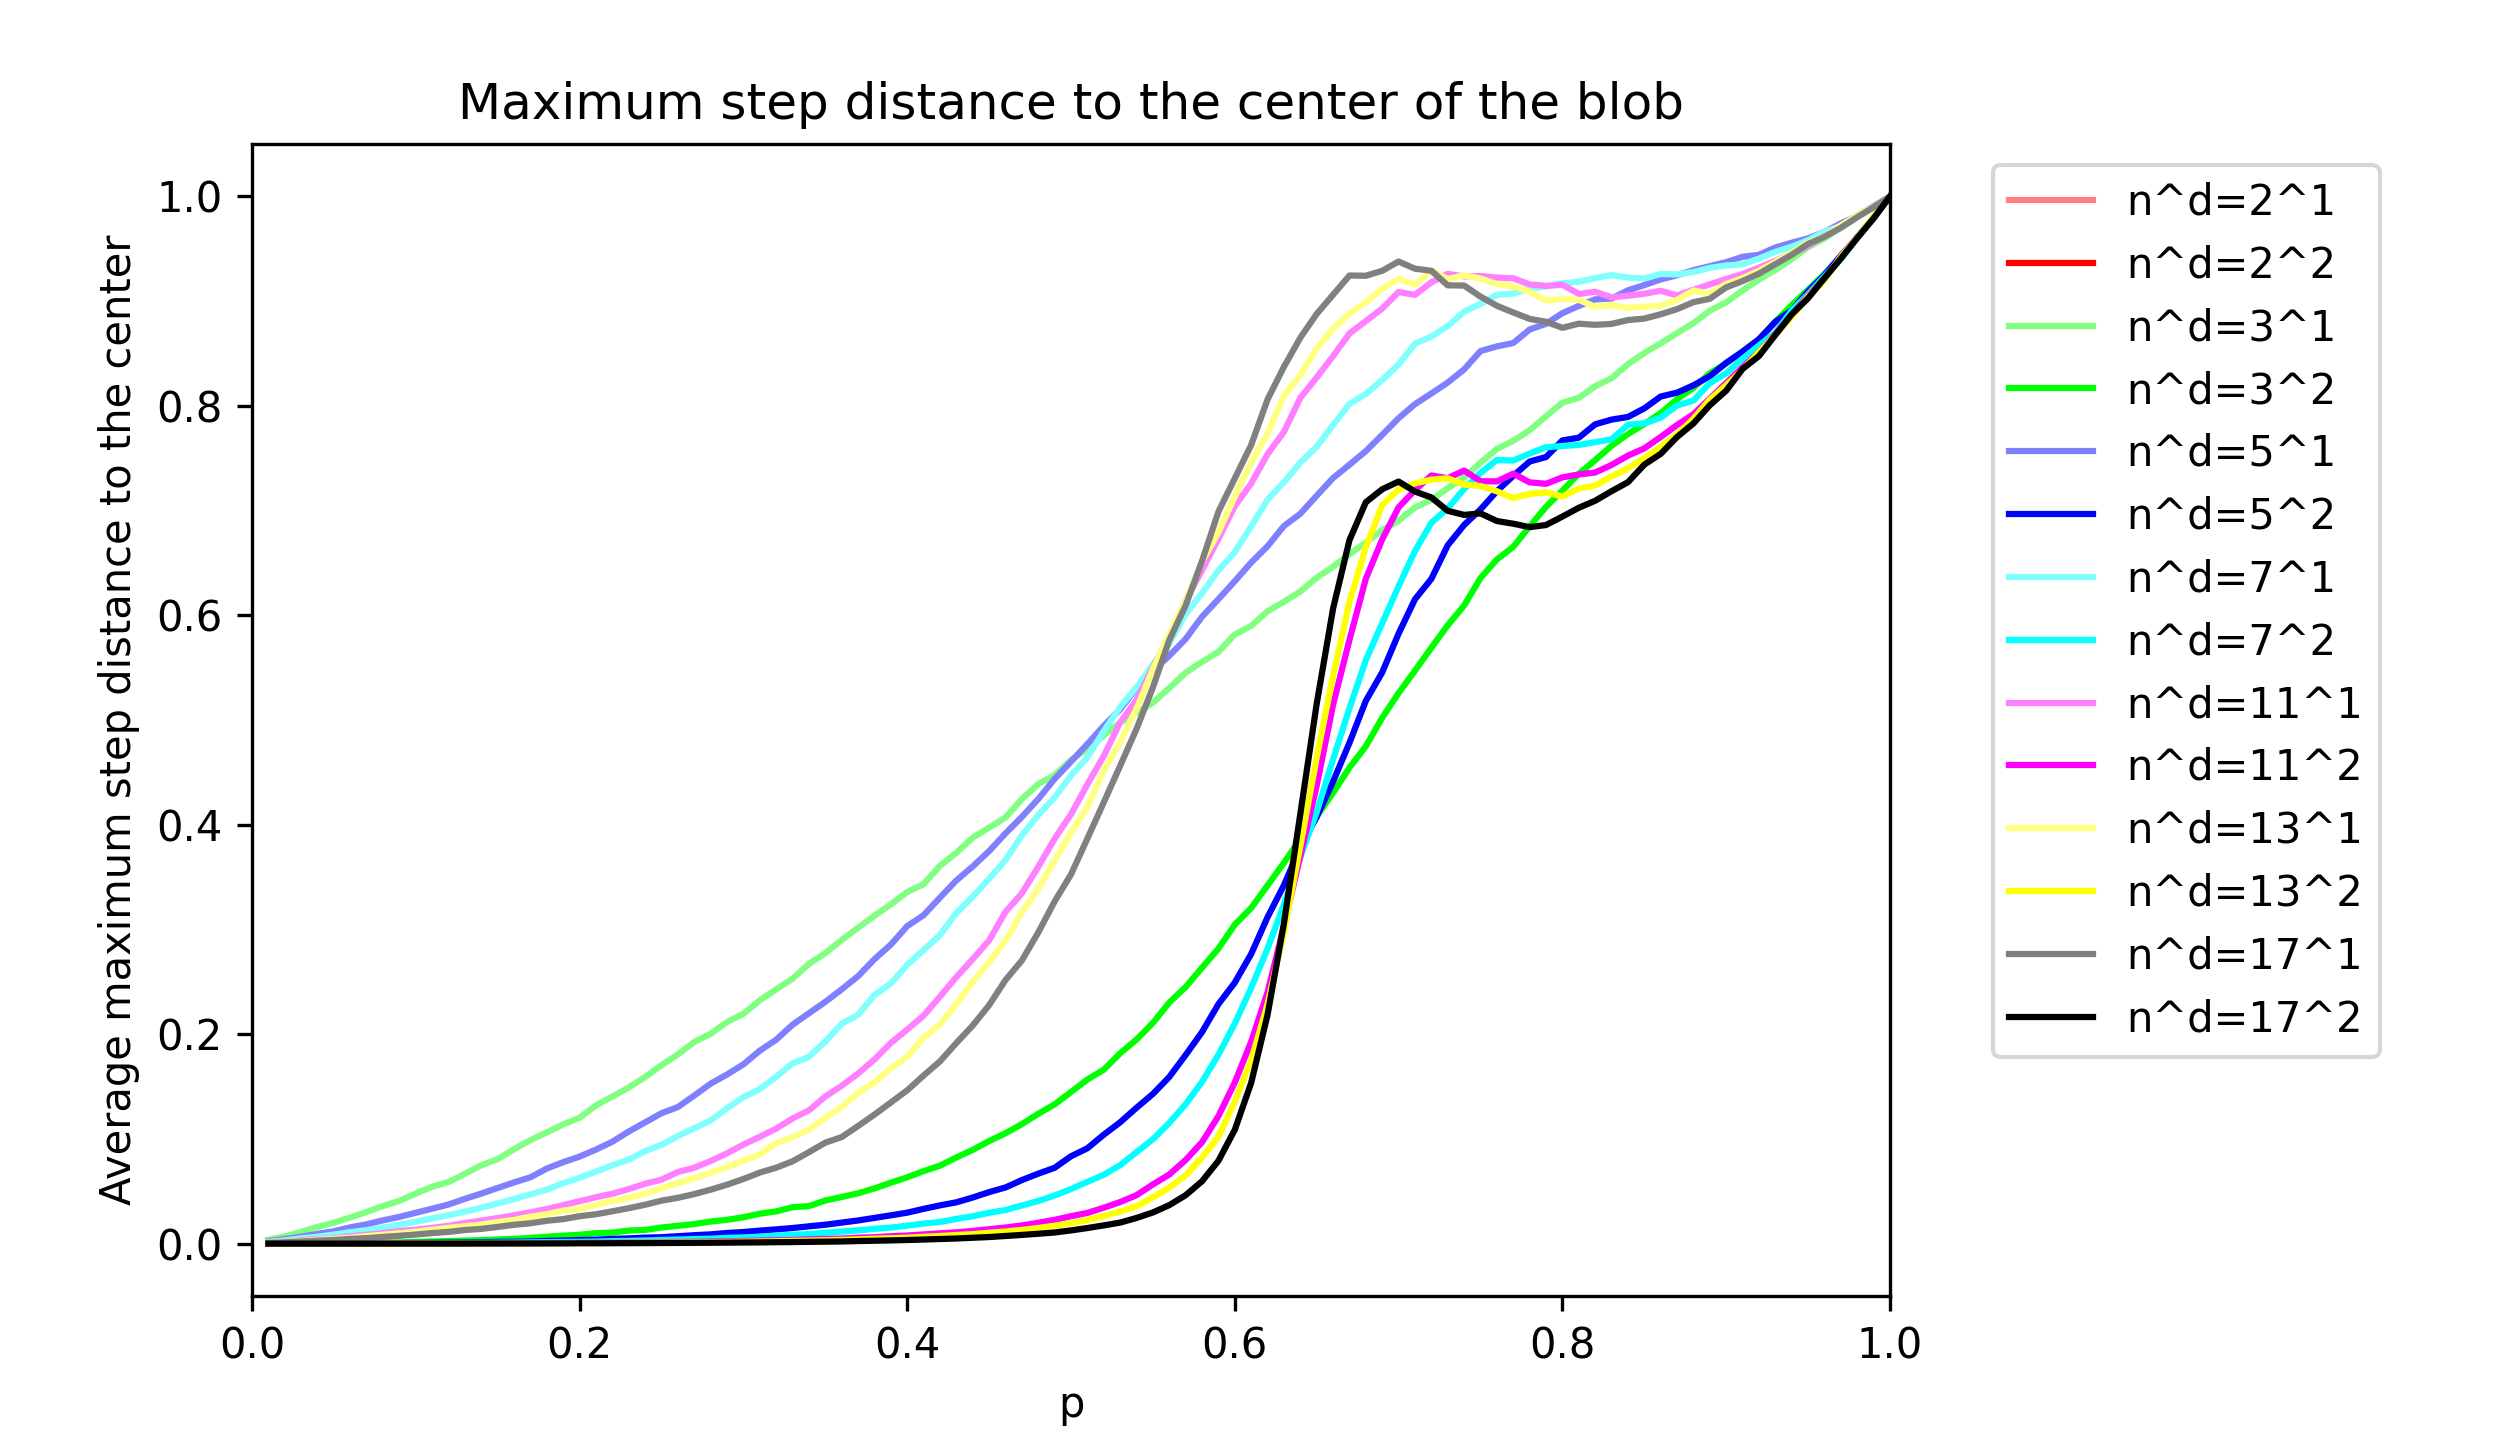
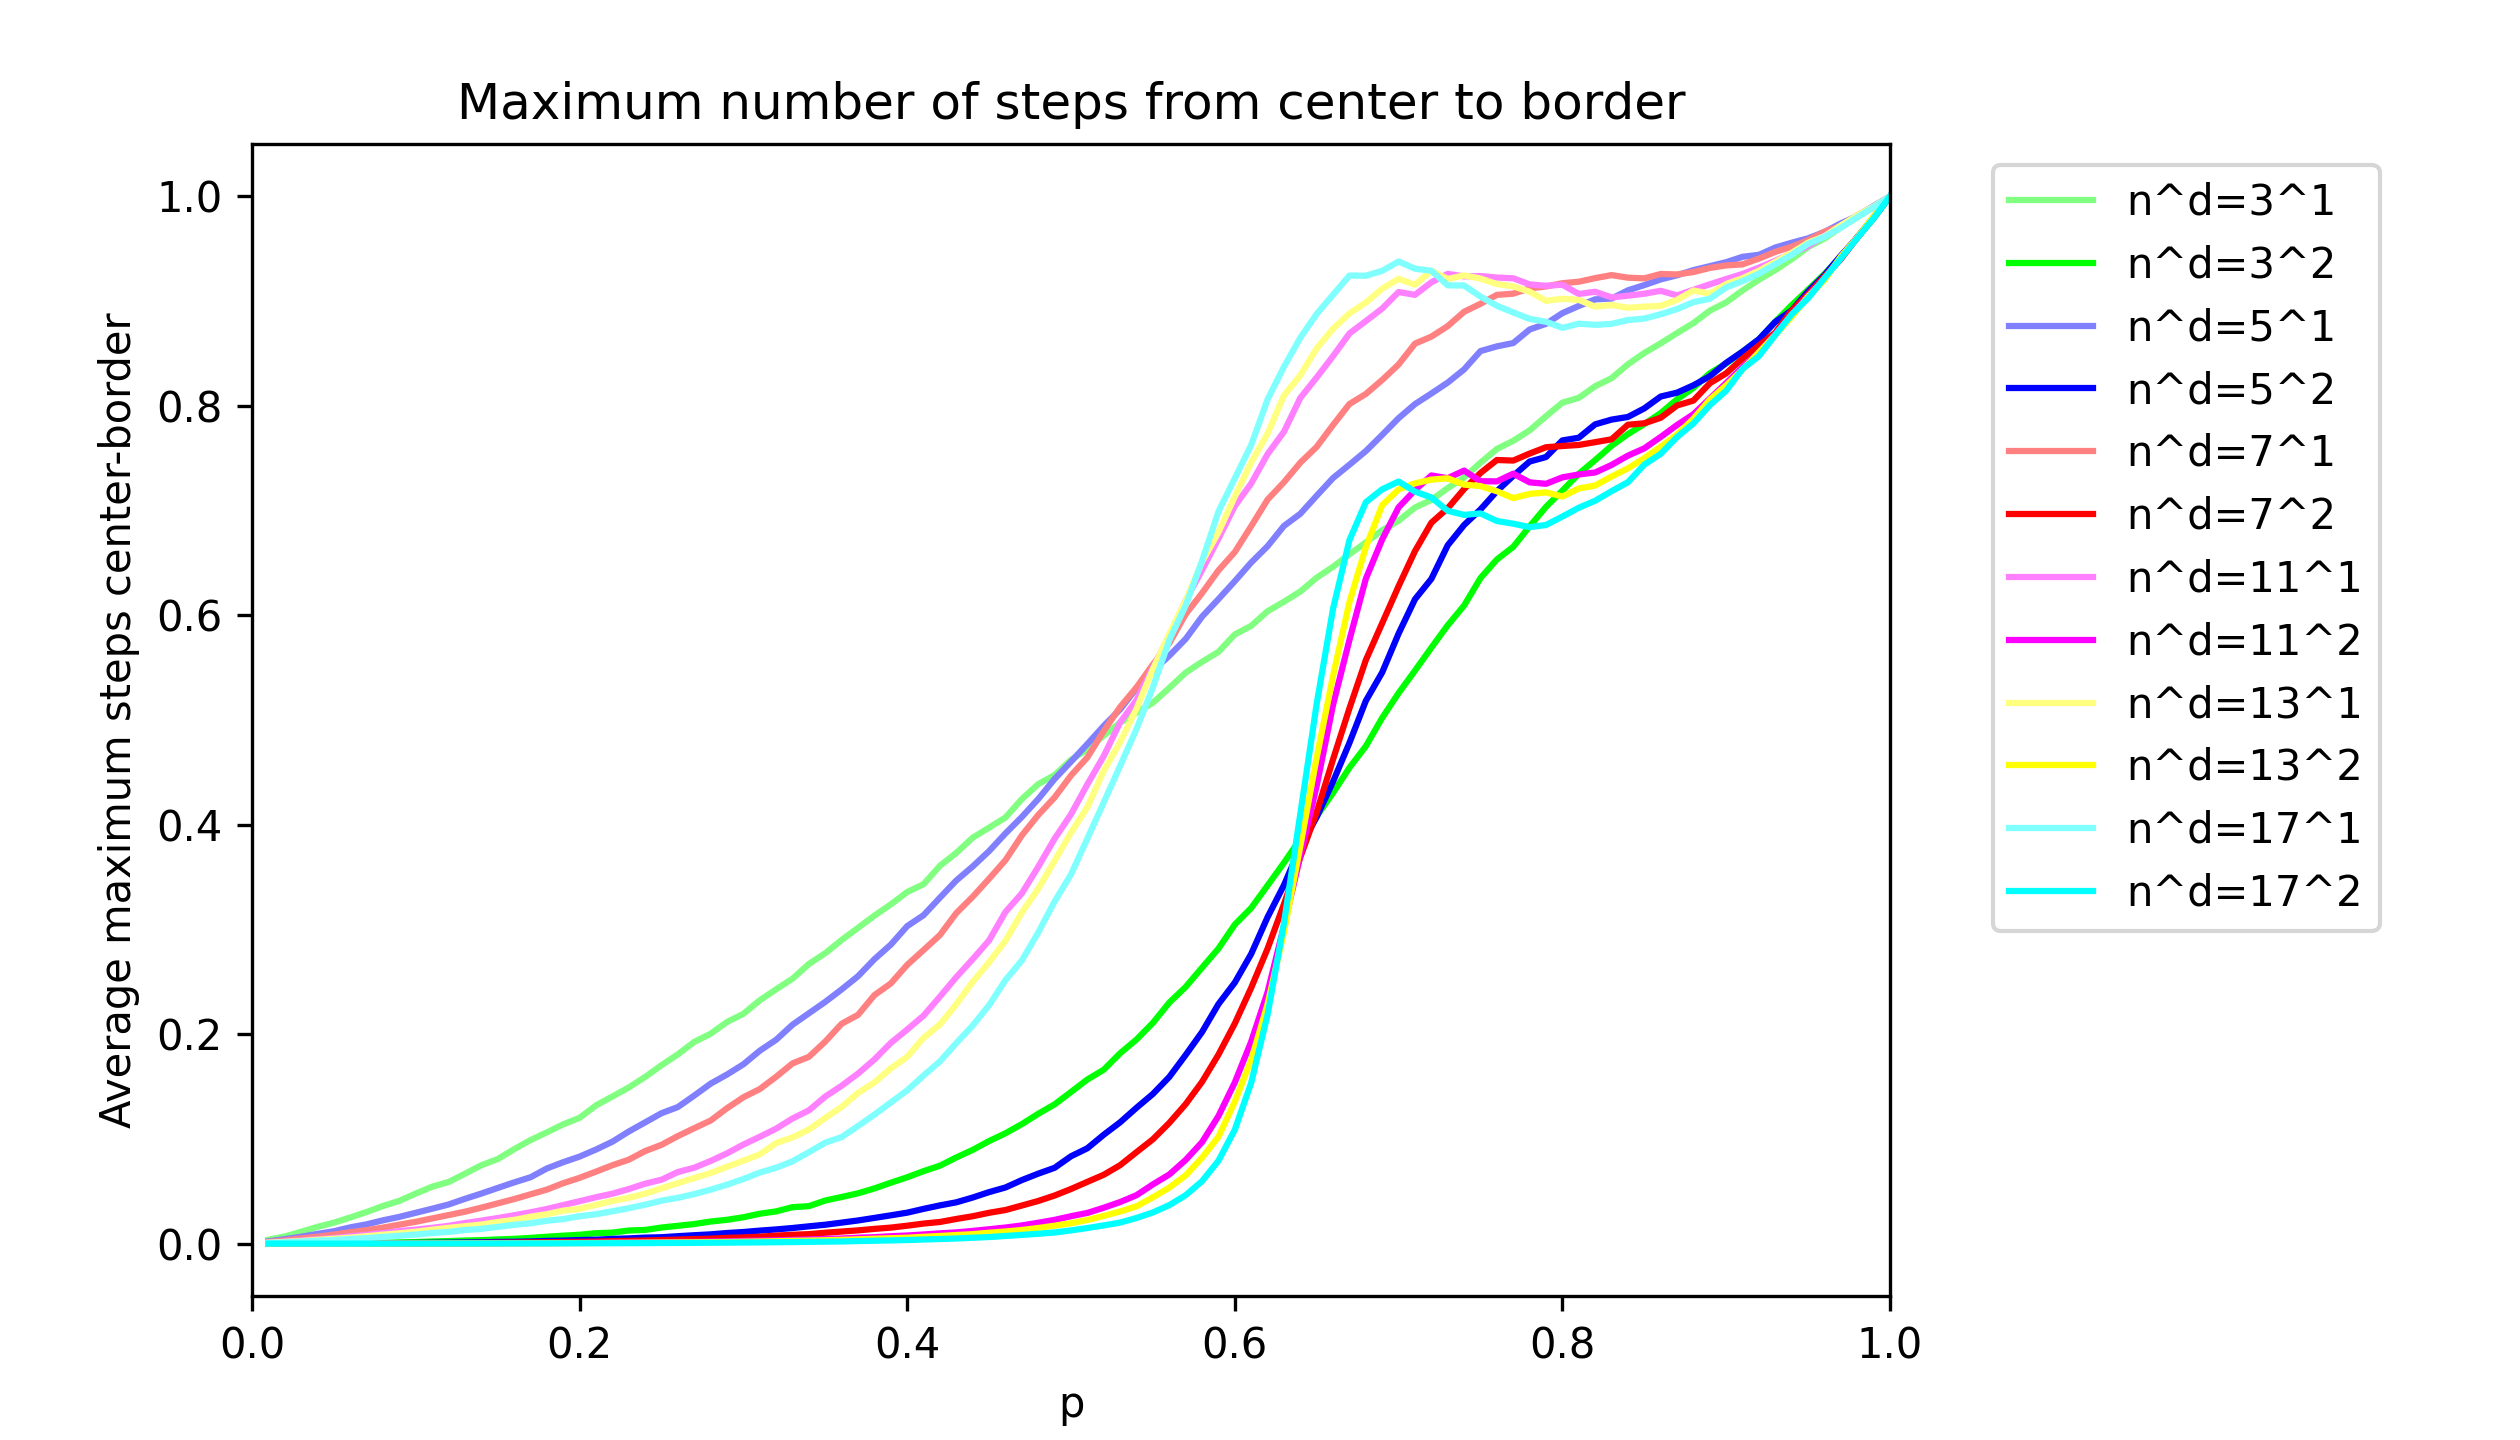
updated label & adapted some scalings

diff --git a/data_visualization/blob2D_avg_area.py b/data_visualization/blob2D_avg_area.py
@@ -27,13 +27,13 @@ def plot_set2(ns, d):
 plt.figure(figsize=[8.4, 4.8])
 plot_set(3, 5, 1,0,1)
 plot_set(5, 2, 1,1,0)
-plt.title("Area of the boundary of the blob")
+plt.title("Length of the boundary of the blob")
 plt.xlabel("p")
-plt.ylabel("Average boundary of the blob area")
+plt.ylabel("Average length of the blob boundary")
 plt.legend(bbox_to_anchor=(1.05, 1), loc='upper left')
 plt.subplots_adjust(left=0.1, right=0.75, top=0.9, bottom=0.1)
 plt.xlim(0,1)
-plt.ylim(0,120)
+# plt.ylim(0,120)
 plt.savefig("data_visualization/blob_2D/blob_area_2D.png", dpi=300)
 plt.show()
 
@@ -46,13 +46,13 @@ plot_set(7, 2, 1,0,0)
 plot_set(11,2, 0,1,0)
 plot_set(13,2, 0,0,1)
 plot_set(17,2, 1,1,1)
-plt.title("Area of the boundary of the blob")
+plt.title("Length of the boundary of the blob")
 plt.xlabel("p")
-plt.ylabel("Average boundary of the blob area")
+plt.ylabel("Average length of the blob boundary")
 plt.legend(bbox_to_anchor=(1.05, 1), loc='upper left')
 plt.subplots_adjust(left=0.1, right=0.75, top=0.9, bottom=0.1)
 plt.xlim(0,1)
-plt.ylim(0,120)
+# plt.ylim(0,120)
 plt.savefig("data_visualization/blob_2D/blob_area_2D_bis.png", dpi=300)
 plt.show()
 
@@ -60,12 +60,12 @@ plt.show()
 
 plt.figure(figsize=[8.4, 4.8])
 plot_set2( [3, 5, 7, 11, 13, 17, 25, 51, 75, 101, 125, 151, 175, 201], 1)
-plt.title("Area of the boundary of the blob")
+plt.title("Length of the boundary of the blob")
 plt.xlabel("p")
-plt.ylabel("Average boundary of the blob area")
+plt.ylabel("Average length of the blob boundary")
 plt.legend(bbox_to_anchor=(1.05, 1), loc='upper left')
 plt.subplots_adjust(left=0.1, right=0.75, top=0.9, bottom=0.1)
 plt.xlim(0,1)
-plt.ylim(0,120)
+# plt.ylim(0,120)
 plt.savefig("data_visualization/blob_2D/blob_area_2D_ter.png", dpi=300)
 plt.show()

diff --git a/data_visualization/blob2D_avg_step.py b/data_visualization/blob2D_avg_step.py
@@ -28,9 +28,9 @@ plt.figure(figsize=[8.4, 4.8])
 #plot_set(2, 8, 0,1,1)
 plot_set(3, 5, 1,0,1)
 plot_set(5, 2, 1,1,0)
-plt.title("Maximum step distance to the center of the blob")
+plt.title("Maximum number of steps from center to border")
 plt.xlabel("p")
-plt.ylabel("Average maximum step distance to the center")
+plt.ylabel("Average maximum steps center-border")
 plt.legend(bbox_to_anchor=(1.05, 1), loc='upper left')
 plt.subplots_adjust(left=0.1, right=0.75, top=0.9, bottom=0.1)
 plt.xlim(0,1)
@@ -41,16 +41,15 @@ plt.show()
 
 
 plt.figure(figsize=[8.4, 4.8])
-plot_set(2, 2, 0,1,1)
 plot_set(3, 2, 1,0,1)
 plot_set(5, 2, 1,1,0)
-plot_set(7, 2, 1,0,0)
+plot_set(7, 2, 0,1,1)
 plot_set(11,2, 0,1,0)
 plot_set(13,2, 0,0,1)
-plot_set(17,2, 1,1,1)
-plt.title("Maximum step distance to the center of the blob")
+plot_set(17,2, 1,0,0)
+plt.title("Maximum number of steps from center to border")
 plt.xlabel("p")
-plt.ylabel("Average maximum step distance to the center")
+plt.ylabel("Average maximum steps center-border")
 plt.legend(bbox_to_anchor=(1.05, 1), loc='upper left')
 plt.subplots_adjust(left=0.1, right=0.75, top=0.9, bottom=0.1)
 plt.xlim(0,1)
@@ -61,10 +60,10 @@ plt.show()
 
 
 plt.figure(figsize=[8.4, 4.8])
-plot_set2( [2, 3, 5, 7, 11, 13, 17, 20, 25, 50, 75, 100, 125, 150, 175, 200], 1)
-plt.title("Maximum step distance to the center of the blob")
+plot_set2( [3, 5, 7, 11, 13, 17, 25, 51, 75, 101, 125, 151, 175, 201], 1)
+plt.title("Maximum number of steps from center to border")
 plt.xlabel("p")
-plt.ylabel("Average maximum step distance to the center")
+plt.ylabel("Average maximum steps center-border")
 plt.legend(bbox_to_anchor=(1.05, 1), loc='upper left')
 plt.subplots_adjust(left=0.1, right=0.75, top=0.9, bottom=0.1)
 plt.xlim(0,1)

diff --git a/data_visualization/blob2D_avg_vol.py b/data_visualization/blob2D_avg_vol.py
@@ -38,9 +38,9 @@ def plot_set2(ns, d):
 plt.figure(figsize=[8.4, 4.8])
 plot_set(3, 5, 1,0,1)
 plot_set(5, 2, 1,1,0)
-plt.title("Volume of the blob")
+plt.title("Area of the blob")
 plt.xlabel("p")
-plt.ylabel("Average blob volume")
+plt.ylabel("Average area of the blob")
 plt.legend(bbox_to_anchor=(1.05, 1), loc='upper left')
 plt.subplots_adjust(left=0.1, right=0.75, top=0.9, bottom=0.1)
 plt.xlim(0,1)
@@ -57,9 +57,9 @@ plot_set(7, 2, 1,0,0)
 plot_set(11,2, 0,1,0)
 plot_set(13,2, 0,0,1)
 plot_set(17,2, 1,1,1)
-plt.title("Volume of the blob")
+plt.title("Area of the blob")
 plt.xlabel("p")
-plt.ylabel("Average blob volume")
+plt.ylabel("Average area of the blob")
 plt.legend(bbox_to_anchor=(1.05, 1), loc='upper left')
 plt.subplots_adjust(left=0.1, right=0.75, top=0.9, bottom=0.1)
 plt.xlim(0,1)
@@ -71,9 +71,9 @@ plt.show()
 
 plt.figure(figsize=[8.4, 4.8])
 plot_set2( [3, 5, 7, 11, 13, 17, 25, 51, 75, 101, 125, 151, 175, 201], 1)
-plt.title("Volume of the blob")
+plt.title("Area of the blob")
 plt.xlabel("p")
-plt.ylabel("Average blob volume")
+plt.ylabel("Average area of the blob")
 plt.legend(bbox_to_anchor=(1.05, 1), loc='upper left')
 plt.subplots_adjust(left=0.1, right=0.75, top=0.9, bottom=0.1)
 plt.xlim(0,1)
@@ -94,9 +94,9 @@ plot(13, 2, 0.5,0,0)
 plot(13*13, 1, 1,0,0)
 plot(17, 2, 0.4,0.4,0.4)
 plot(17*17, 1, 0.8,0.8,0.8)
-plt.title("Volume of the blob")
+plt.title("Area of the blob")
 plt.xlabel("p")
-plt.ylabel("Average blob volume")
+plt.ylabel("Average area of the blob")
 plt.legend(bbox_to_anchor=(1.05, 1), loc='upper left')
 plt.subplots_adjust(left=0.1, right=0.75, top=0.9, bottom=0.1)
 plt.xlim(0,1)

diff --git a/data_visualization/blob2D_avg_dist.py b/data_visualization/blob2D_avg_dist.py
@@ -27,7 +27,7 @@ def plot_set2(ns, d):
 plt.figure(figsize=[8.4, 4.8])
 plot_set(3, 5, 1,0,1)
 plot_set(5, 2, 1,1,0)
-plt.title("Maximum center-border distance of the blob")
+plt.title("Maximum center-border Euclidean distance of the blob")
 plt.xlabel("p")
 plt.ylabel("Average maximum center-border distance")
 plt.legend(bbox_to_anchor=(1.05, 1), loc='upper left')
@@ -46,7 +46,7 @@ plot_set(7, 2, 1,0,0)
 plot_set(11,2, 0,1,0)
 plot_set(13,2, 0,0,1)
 plot_set(17,2, 1,1,1)
-plt.title("Maximum center-border distance of the blob")
+plt.title("Maximum center-border Euclidean distance of the blob")
 plt.xlabel("p")
 plt.ylabel("Average maximum center-border distance")
 plt.legend(bbox_to_anchor=(1.05, 1), loc='upper left')
@@ -60,12 +60,12 @@ plt.show()
 
 plt.figure(figsize=[8.4, 4.8])
 plot_set2( [3, 5, 7, 11, 13, 17, 25, 51, 75, 101, 125, 151, 175, 201], 1)
-plt.title("Maximum center-border distance of the blob")
+plt.title("Maximum center-border Euclidean distance of the blob")
 plt.xlabel("p")
 plt.ylabel("Average maximum center-border distance")
 plt.legend(bbox_to_anchor=(1.05, 1), loc='upper left')
 plt.subplots_adjust(left=0.1, right=0.75, top=0.9, bottom=0.1)
 plt.xlim(0,1)
-plt.ylim(0,0.5*(2**0.5))
+#plt.ylim(0,0.5*(2**0.5))
 plt.savefig("data_visualization/blob_2D/blob_dist_2D_ter.png", dpi=300)
 plt.show()

diff --git a/data_visualization/blob3D_avg_step.py b/data_visualization/blob3D_avg_step.py
@@ -27,9 +27,9 @@ def plot_set2(ns, d):
 plt.figure(figsize=[8.4, 4.8])
 plot_set(3, 3, 1,0,1)
 plot_set(5, 2, 1,1,0)
-plt.title("Maximum step distance to the center of the blob")
+plt.title("Maximum number of steps from center to border")
 plt.xlabel("p")
-plt.ylabel("Average maximum step distance to the center")
+plt.ylabel("Average maximum center-border distance")
 plt.legend(bbox_to_anchor=(1.05, 1), loc='upper left')
 plt.subplots_adjust(left=0.1, right=0.75, top=0.9, bottom=0.1)
 plt.xlim(0,1)
@@ -40,9 +40,9 @@ plt.show()
 
 plt.figure(figsize=[8.4, 4.8])
 plot_set2( [3, 5, 7, 9, 11, 13, 15], 1)
-plt.title("Maximum step distance to the center of the blob")
+plt.title("Maximum number of steps from center to border")
 plt.xlabel("p")
-plt.ylabel("Average maximum step distance to the center")
+plt.ylabel("Average maximum steps center-border")
 plt.legend(bbox_to_anchor=(1.05, 1), loc='upper left')
 plt.subplots_adjust(left=0.1, right=0.75, top=0.9, bottom=0.1)
 plt.xlim(0,1)

diff --git a/data_visualization/blob3D_avg_dist.py b/data_visualization/blob3D_avg_dist.py
@@ -27,7 +27,7 @@ def plot_set2(ns, d):
 plt.figure(figsize=[8.4, 4.8])
 plot_set(3, 3, 1,0,1)
 plot_set(5, 2, 1,1,0)
-plt.title("Maximum center-border distance of the blob")
+plt.title("Maximum center-border Euclidean distance of the blob")
 plt.xlabel("p")
 plt.ylabel("Average maximum center-border distance")
 plt.legend(bbox_to_anchor=(1.05, 1), loc='upper left')
@@ -42,7 +42,7 @@ plt.show()
 
 plt.figure(figsize=[8.4, 4.8])
 plot_set2( [3, 5, 7, 9, 11, 13, 15], 1)
-plt.title("Maximum center-border distance of the blob")
+plt.title("Maximum center-border Euclidean distance of the blob")
 plt.xlabel("p")
 plt.ylabel("Average maximum center-border distance")
 plt.legend(bbox_to_anchor=(1.05, 1), loc='upper left')

diff --git a/data_visualization/blobData3D.py b/data_visualization/blobData3D.py
@@ -9,7 +9,8 @@ data["side"] = data["n"]**(data["d"])
 data["max"] = data["rep"] * (data["side"]**3)
 data["avg_vol"] = data["vol"] / data["rep"] / ((data["n"]**data["d"])**3)
 data["avg_area"] = data["area"] / data["rep"] / ((data["n"]**data["d"])**2)
-data["avg_dist"] = data["dist"] / data["rep"] / (data["n"]**data["d"])
+data["rescale_dist"] = ((np.sqrt(2)/2) / ((np.sqrt(2)/2) - ((np.sqrt(2)/2)/(data["n"]**data["d"]))))
+data["avg_dist"] = data["rescale_dist"] * (data["dist"] / data["rep"] / (data["n"]**data["d"]))
 data["avg_step"] = (data["step"]) / data["rep"] / (data["n"]**data["d"])
 
 

diff --git a/data_visualization/blobData2D.py b/data_visualization/blobData2D.py
@@ -9,7 +9,8 @@ data["side"] = data["n"]**(data["d"])
 data["max"] = data["rep"] * (data["side"]**2)
 data["avg_vol"] = (data["vol"] / data["rep"]) / ((data["n"]**data["d"])**2)
 data["avg_area"] = data["area"] / data["rep"] / (data["n"]**data["d"])
-data["avg_dist"] = data["dist"] / data["rep"] / (data["n"]**data["d"])
+data["rescale_dist"] = ((np.sqrt(2)/2) / ((np.sqrt(2)/2) - ((np.sqrt(2)/2)/(data["n"]**data["d"]))))
+data["avg_dist"] = data["rescale_dist"] * (data["dist"] / data["rep"] / (data["n"]**data["d"]))
 data["avg_step"] = data["step"] / data["rep"] / (data["n"]**data["d"])
 
 
